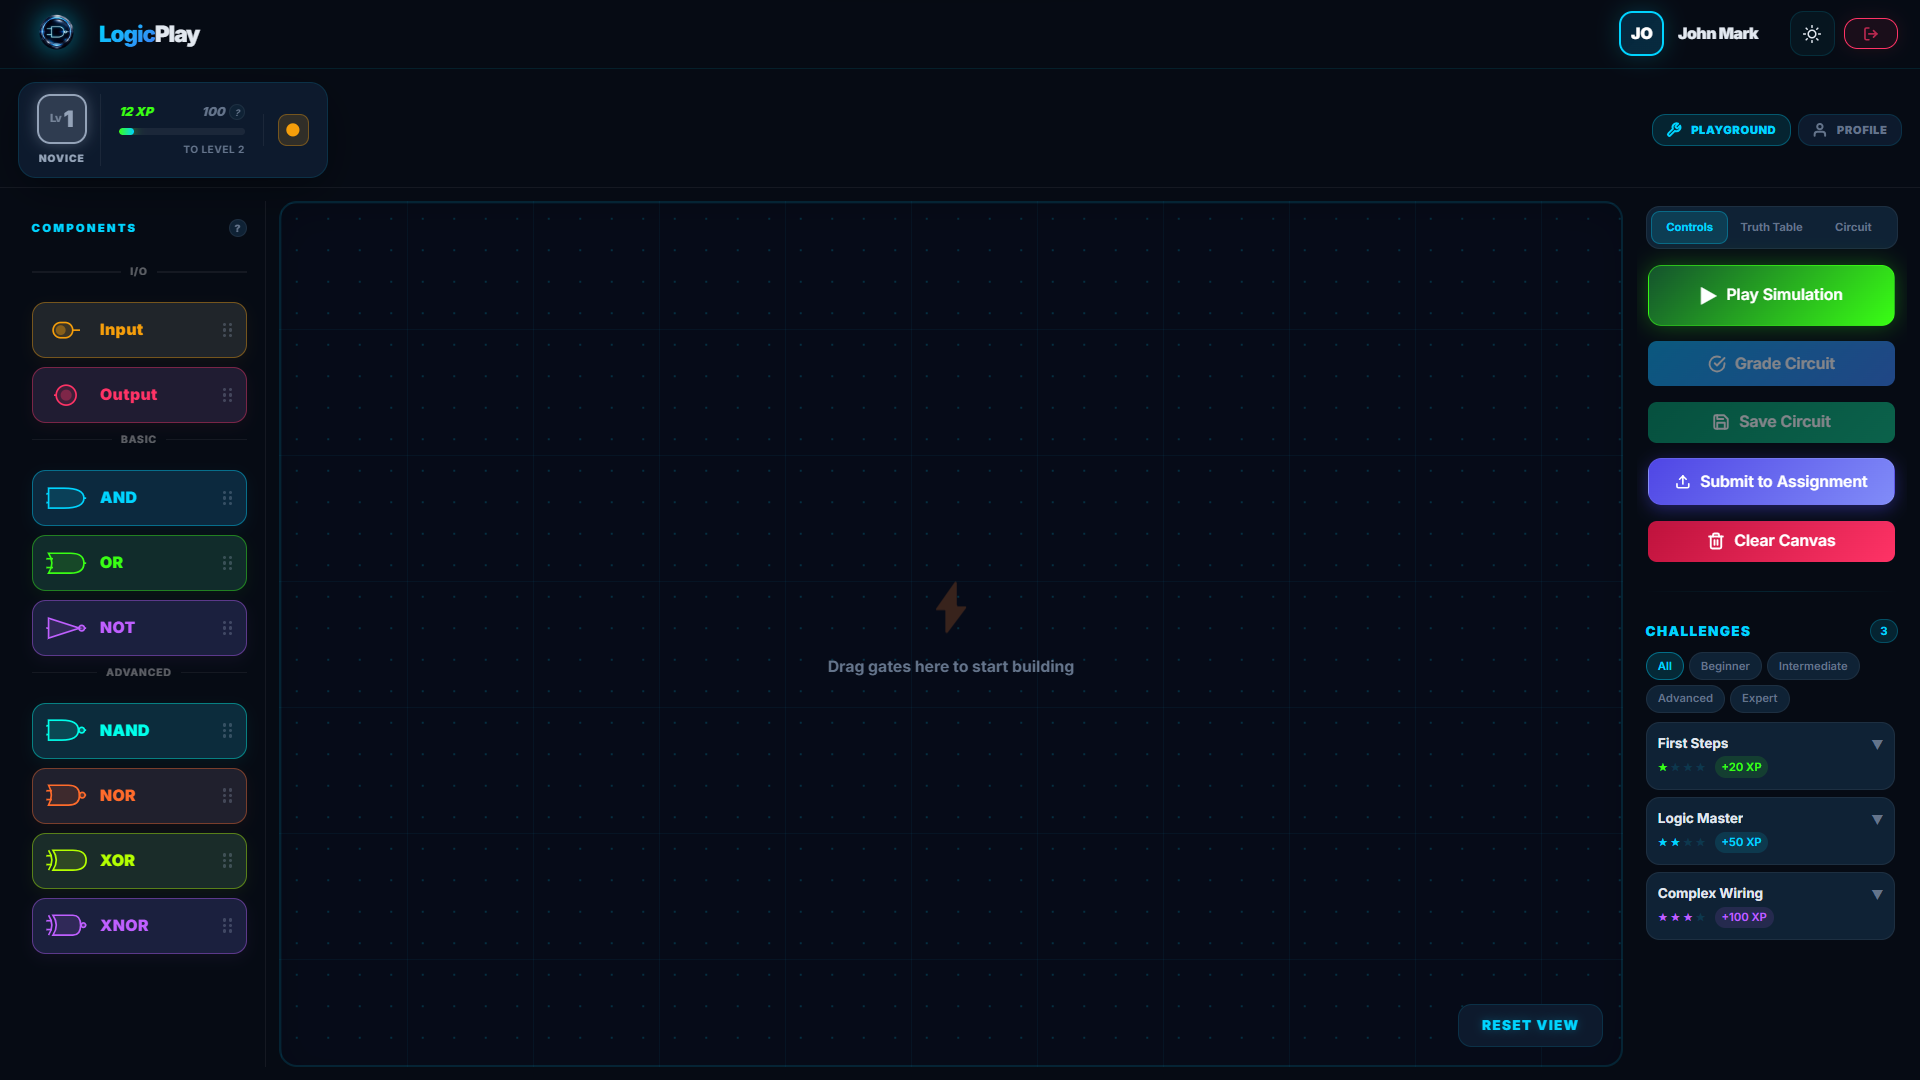
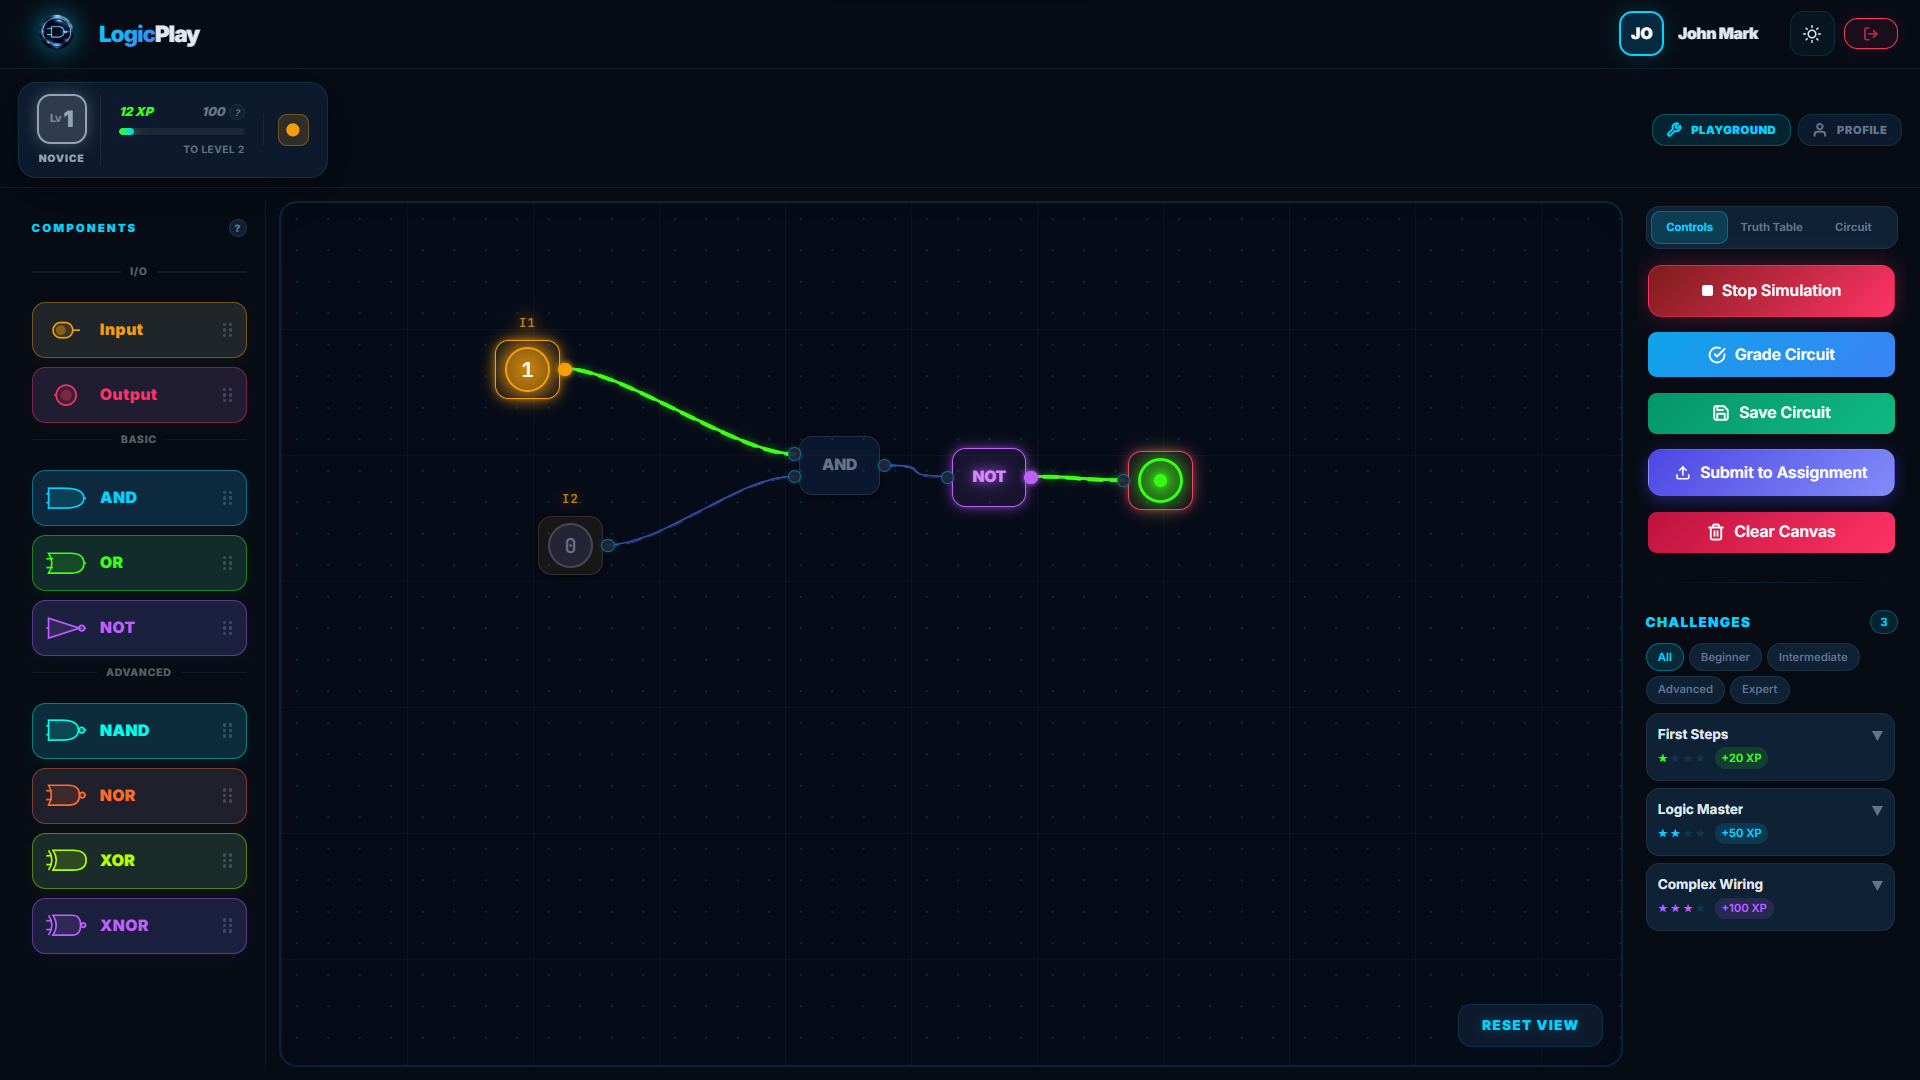
docs: add dashboard image and clarify live demo link in README

diff --git a/README.md b/README.md
@@ -80,7 +80,7 @@ It works entirely in the browser (desktop & mobile) thanks to its **Progressive 
   <img src="images/dashboard/dashboard.png" alt="Gamification Dashboard" width="600"/>
 </p>
 
-> **Live demo:** [logicplay-demo.vercel.app](https://logicplay-demo.vercel.app) (temporary link – replace with your actual deployment)
+> **Live demo:** [logicplay-demo.vercel.app](https://logicplay-demo.vercel.app) (my sample/temporary link only)
 
 ---
 
